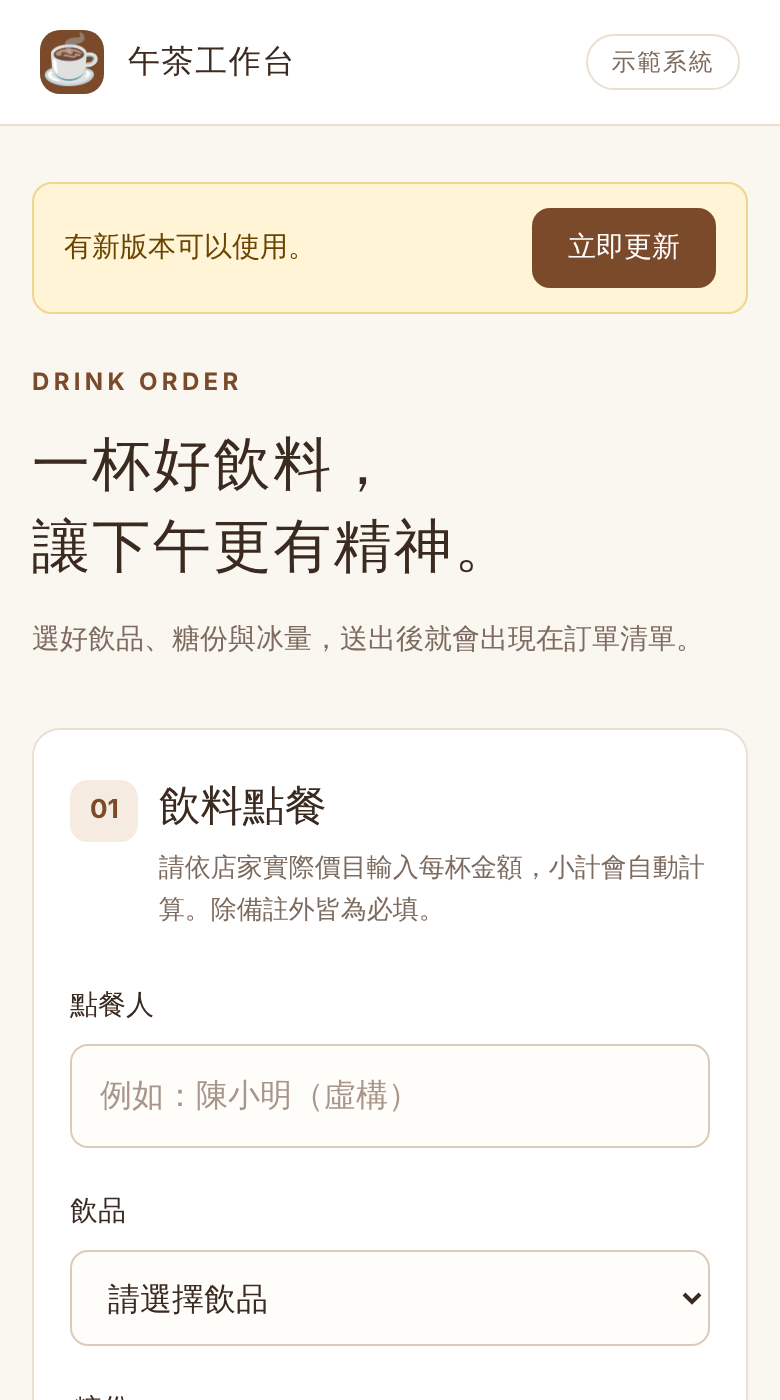
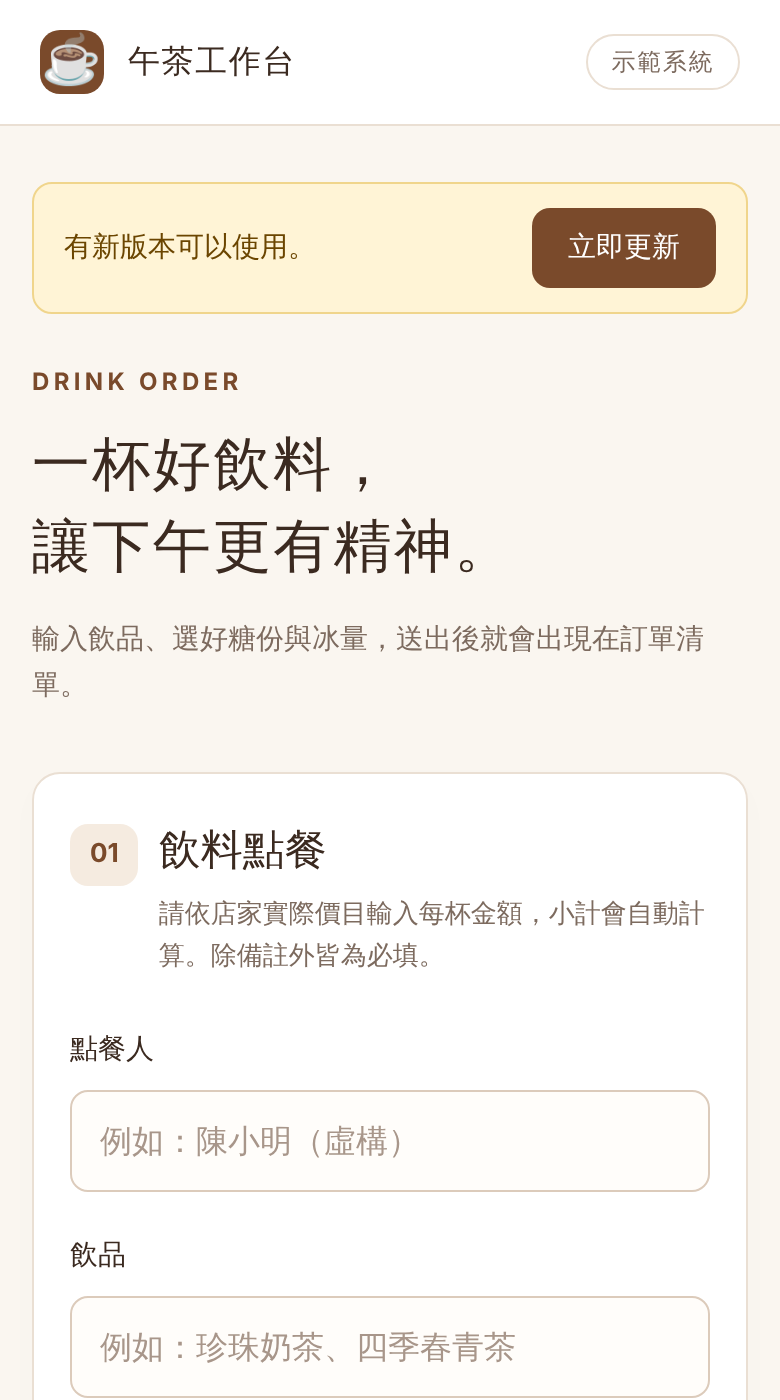
飲品欄位改為手動輸入
- 飲品由下拉選單改為文字輸入，最多 50 字，前後空白去除
- schema.sql 飲品限制改為 1～50 字且不可只有空白
- 新增 supabase/migrations/20261116_drink_free_text.sql 供已建立的資料庫執行
- 更新回歸測試、預覽截圖、需求筆記、README 與 AGENTS.md

Claude-Session: https://claude.ai/code/session_01PMThZ8T3LDcZiV1NZyRfh1

diff --git a/index.html b/index.html
@@ -19,11 +19,11 @@
   <header class="topbar"><div class="brand"><span class="brand-icon" aria-hidden="true">☕</span>午茶工作台<span class="demo">示範系統</span></div></header>
   <main>
     <div class="pwa-tools"><div id="update-banner" class="update-banner" role="status" aria-live="polite" hidden><span id="update-text">有新版本可以使用。</span><button id="update-button" type="button">立即更新</button></div><button id="install-button" class="secondary" type="button" hidden>安裝點餐系統</button><p id="connection-message" class="message" role="status" hidden></p></div>
-    <div class="intro"><p class="eyebrow">DRINK ORDER</p><h1>一杯好飲料，<br>讓下午更有精神。</h1><p>選好飲品、糖份與冰量，送出後就會出現在訂單清單。</p></div>
+    <div class="intro"><p class="eyebrow">DRINK ORDER</p><h1>一杯好飲料，<br>讓下午更有精神。</h1><p>輸入飲品、選好糖份與冰量，送出後就會出現在訂單清單。</p></div>
     <section class="panel" aria-labelledby="form-title">
       <div class="section-heading"><span class="step">01</span><div><h2 id="form-title">飲料點餐</h2><p>請依店家實際價目輸入每杯金額，小計會自動計算。除備註外皆為必填。</p></div></div>
       <form id="order-form">
-        <div class="grid"><label>點餐人<input name="customer_name" autocomplete="name" required maxlength="100" placeholder="例如：陳小明（虛構）"></label><label>飲品<select name="drink" required><option value="" disabled selected>請選擇飲品</option><option>紅茶</option><option>綠茶</option><option>烏龍茶</option><option>奶茶</option><option>珍珠奶茶</option><option>檸檬綠茶</option><option>美式咖啡</option><option>拿鐵</option></select></label></div>
+        <div class="grid"><label>點餐人<input name="customer_name" autocomplete="name" required maxlength="100" placeholder="例如：陳小明（虛構）"></label><label>飲品<input name="drink" required maxlength="50" autocomplete="off" placeholder="例如：珍珠奶茶、四季春青茶"></label></div>
         <fieldset><legend>糖份</legend><div class="choice-options five"><label><input type="radio" name="sugar" value="無糖" required><span>無糖</span></label><label><input type="radio" name="sugar" value="微糖"><span>微糖</span></label><label><input type="radio" name="sugar" value="半糖" checked><span>半糖</span></label><label><input type="radio" name="sugar" value="少糖"><span>少糖</span></label><label><input type="radio" name="sugar" value="全糖"><span>全糖</span></label></div></fieldset>
         <fieldset><legend>冰量</legend><div class="choice-options five"><label><input type="radio" name="ice" value="去冰" required><span>去冰</span></label><label><input type="radio" name="ice" value="微冰"><span>微冰</span></label><label><input type="radio" name="ice" value="少冰" checked><span>少冰</span></label><label><input type="radio" name="ice" value="正常冰"><span>正常冰</span></label><label><input type="radio" name="ice" value="熱"><span>熱</span></label></div></fieldset>
         <div class="grid"><label>金額（每杯，新台幣）<input name="amount" type="number" inputmode="numeric" required min="1" max="9999" step="1" placeholder="依店家實際價目輸入，例如 55"></label><label>數量（杯）<input name="quantity" type="number" inputmode="numeric" required min="1" max="50" step="1" value="1"></label></div>

diff --git a/AGENTS.md b/AGENTS.md
@@ -4,7 +4,7 @@
 
 本儲存庫收錄一套虛構飲料點餐系統（原為報修登記系統）。根目錄下的 `點餐需求筆記.txt` 記載點餐表單、訂單清單、欄位、存取規則及待確認事項。示範範圍如有經核准的變更，請同步更新筆記。新增任何元件時，請在本指南記錄其位置。`文件/` 內的 Excel、PowerPoint、Word 仍為報修版，尚未改寫為點餐內容。
 
-`supabase/schema.sql` 是 `drink_orders` 的一次性建表與 GRANT、RLS、CHECK 設計檔，已於 2026-11-16 在正式專案執行；之後的資料表變更請另寫遷移，不要重複執行此檔。
+`supabase/schema.sql` 是 `drink_orders` 的一次性建表與 GRANT、RLS、CHECK 設計檔，已於 2026-11-16 在正式專案執行；之後的資料表變更請另寫遷移，放在 `supabase/migrations/`（檔名以日期開頭），並同步更新 `schema.sql` 供新資料庫使用；不要重複執行 `schema.sql`。
 
 ## 本機開發與檢查
 
